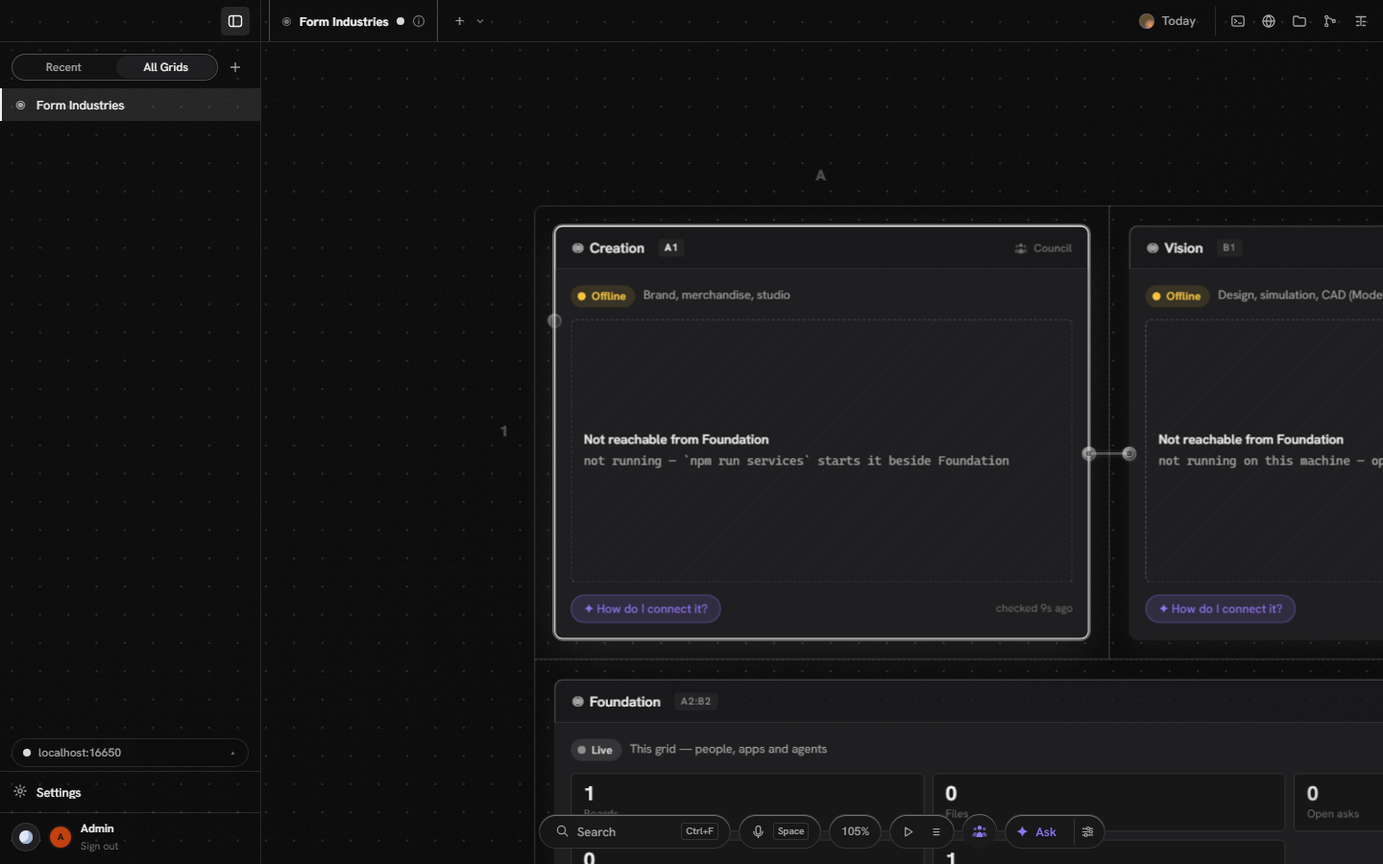
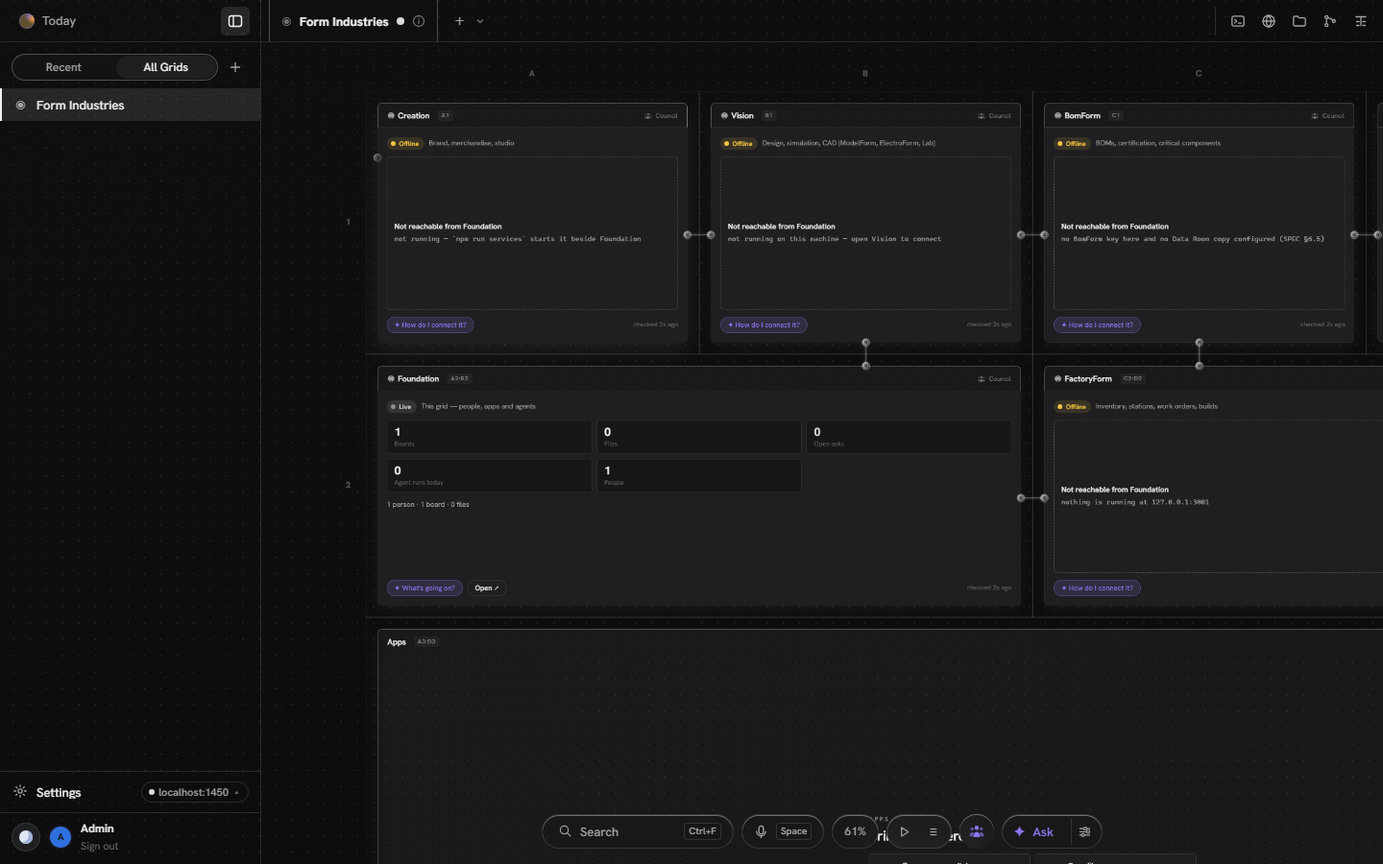
The server pill moves into Settings' band, to its right, and gets smaller
Josh: "the localhost pill can be in the same box to the right of settings.
make it smaller." The side menu's foot now has Settings and the server pill
in one band: the pill is 22 tall (was 30, the menu's width), 11 px text, a
6 px dot, 16 px in from the menu's right edge. In a narrow menu the address
shortens before Settings does. Its panel still rises over the band, left
aligned. #/design's side-pane demo matches.

Checked: npm test and npm run typecheck green; the bottom-bar e2e test for the
side menu's foot rewritten (pill right of Settings, centred on its line, at
most 24 tall, inside the menu) and passing; in the browser on #/design in day
and night, at the demo's narrow width (address shortened, Settings whole) and
at 272 px (full address, 12 px margin). SPEC §3 and DESIGN updated.

diff --git a/apps/client/e2e/bottom-bar.spec.ts b/apps/client/e2e/bottom-bar.spec.ts
@@ -173,7 +173,7 @@ test("a section's council: three places at the section's right, by its Council b
   await admin.keyboard.press("Escape");
 });
 
-test("the side menu's foot: the server the menu's width above Settings, day and night left of you, all in line with the Settings icon", async () => {
+test("the side menu's foot: the server a small pill right of Settings in its band, day and night left of you, in line with the Settings icon", async () => {
   await admin.locator(".pane-fold").click();
   const pane = admin.locator(".side-pane");
   await expect(pane.locator('[data-server-where="pane"]')).toBeVisible();
@@ -183,11 +183,12 @@ test("the side menu's foot: the server the menu's width above Settings, day and 
   const orb = await box(admin, ".side-pane .pane-foot .night-orb");
   const me = await box(admin, ".side-pane .pane-foot .me-avatar");
   const paneBox = (await pane.boundingBox())!;
-  // above Settings, and nearly the menu's width with the same space either side
-  expect(pill.y + pill.height).toBeLessThanOrEqual(settings.y);
-  expect(Math.abs(pill.x - paneBox.x - (paneBox.x + paneBox.width - (pill.x + pill.width)))).toBeLessThan(3);
-  // the left edges in a line: the server pill, the Settings icon, the orb
-  expect(Math.abs(pill.x - settings.x)).toBeLessThan(2);
+  // in Settings' band: right of it, centred on the same line, small, and inside the menu's right edge
+  expect(pill.x).toBeGreaterThan(settings.x + settings.width);
+  expect(Math.abs(pill.y + pill.height / 2 - (settings.y + settings.height / 2))).toBeLessThan(3);
+  expect(pill.height).toBeLessThanOrEqual(24);
+  expect(pill.x + pill.width).toBeLessThanOrEqual(paneBox.x + paneBox.width);
+  // the orb's left edge in line with the Settings icon
   expect(Math.abs(orb.x - settings.x)).toBeLessThan(3);
   // the orb is left of you
   expect(orb.x + orb.width).toBeLessThanOrEqual(me.x);

diff --git a/apps/client/src/design/DesignPage.tsx b/apps/client/src/design/DesignPage.tsx
@@ -495,23 +495,23 @@ export function DesignPage({ chapter }: { chapter?: DesignChapter }) {
                 </div>
               </section>
             </div>
-            {/* the foot (2026-11-17): the server the menu's width above Settings; day and night left of you; edges on the Settings icon's */}
-            <div className="server-switch-place is-bar is-pane">
-              <div className="server-switch">
-                <span className="server-switch-pill">
-                  <i className="server-switch-dot" data-tone="ok" />
-                  <span className="server-switch-addr">localhost:4410</span>
-                  <span className="server-switch-caret">▴</span>
-                </span>
-              </div>
-            </div>
-            <section className="pane-band pane-low">
+            {/* the foot (2026-11-17): Settings with the server as a small pill to its right; day and night left of you */}
+            <section className="pane-band pane-low pane-low-row">
               <span className="pane-row pane-place">
                 <span className="pane-glyph">
                   <GearGlyph />
                 </span>
                 <span className="pane-label">Settings</span>
               </span>
+              <div className="server-switch-place is-bar is-pane">
+                <div className="server-switch">
+                  <span className="server-switch-pill">
+                    <i className="server-switch-dot" data-tone="ok" />
+                    <span className="server-switch-addr">localhost:4410</span>
+                    <span className="server-switch-caret">▴</span>
+                  </span>
+                </div>
+              </div>
             </section>
             <footer className="pane-foot">
               <NightOrb onToggle={() => setNight(!isNight())} />

diff --git a/apps/client/src/server/server.css b/apps/client/src/server/server.css
@@ -292,26 +292,38 @@ html[data-server-switch] .huddle-pip ~ .upload-tray-place {
   transform-origin: top right;
 }
 
-/* ---------- in the side menu's foot, above Settings (2026-11-17): the width of the menu, its panel rising from it ---------- */
+/* ---------- in the side menu's Settings band (2026-11-17): a small pill right of Settings, its panel rising over the band ---------- */
 
 .server-switch-place.is-pane {
-  display: block;
-  /* its edges in line with the Settings icon under it (the menu rows' 12 px), and the same space on the right */
-  padding: var(--space-2) var(--space-4);
+  position: static;
+  display: flex;
+  /* a narrow menu shortens the address, never Settings */
+  flex: 0 1 auto;
+  min-width: 0;
+  align-items: center;
+  padding: 0 var(--space-4) 0 var(--space-2);
 }
+/* static, so the panel is placed against the band (.pane-low-row), not the small pill */
 .is-pane .server-switch {
-  align-items: stretch;
+  position: static;
+  min-width: 0;
+  align-items: center;
 }
 .is-pane .server-switch-pill {
-  width: 100%;
-  height: 30px;
-  justify-content: flex-start;
-  padding: 0 var(--space-4);
+  min-width: 0;
+  max-width: 100%;
+  height: 22px;
+  gap: var(--space-2);
+  padding: 0 var(--space-3);
+  font-size: var(--text-11);
+}
+.is-pane .server-switch-dot {
+  width: 6px;
+  height: 6px;
 }
 .is-pane .server-switch-addr {
-  flex: 1;
-  max-width: none;
-  text-align: left;
+  min-width: 0;
+  max-width: 104px;
 }
 .is-pane .server-switch-lift,
 .is-pane .server-switch[data-still] .server-switch-panel {

diff --git a/apps/client/src/shell/SidePane.tsx b/apps/client/src/shell/SidePane.tsx
@@ -202,15 +202,15 @@ export function SidePane({ user, boards, current, place, onSwitch, onNew }: Prop
             </section>
           </div>
 
-          {/* the server this app talks to, the menu's width, above Settings (2026-11-17: out of the top bar) */}
-          <ServerSwitch where="pane" />
-          <section className="pane-band pane-low">
+          {/* Settings, and the server this app talks to as a small pill to its right in the same band (2026-11-17) */}
+          <section className="pane-band pane-low pane-low-row">
             <button className={`pane-row pane-place${place.kind === "settings" ? " is-current" : ""}`} onClick={() => goSettings()} data-place="settings">
               <span className="pane-glyph">
                 <GearGlyph />
               </span>
               <span className="pane-label">Settings</span>
             </button>
+            <ServerSwitch where="pane" />
           </section>
           <footer className="pane-foot">
             {/* day and night, left of you (2026-11-17: out of the top bar) */}

diff --git a/apps/client/src/server/ServerSwitch.tsx b/apps/client/src/server/ServerSwitch.tsx
@@ -274,7 +274,7 @@ const keep = (k: string, v: string) => {
 let launchChecked = false;
 
 /**
- * The switch itself. Signed in, it sits in the side menu's foot above Settings (`where="pane"`, 2026-11-17;
+ * The switch itself. Signed in, it is a small pill right of Settings in the side menu's foot (`where="pane"`, 2026-11-17;
  * from 2026-11-15 it was in the top bar, `where="bar"`: always there, so the server this app talks to is
  * never a mystery); before that there is no bar, and it keeps the bottom-right
  * corner wherever the app can point at another server. `day` pins day tokens over the sign-in page.

diff --git a/apps/client/src/shell/spaces.css b/apps/client/src/shell/spaces.css
@@ -657,6 +657,16 @@
   border-top: 1px solid var(--color-line);
   border-bottom: 1px solid var(--color-line);
 }
+/* Settings and the server pill in one band: Settings takes the room, the pill sits at the right */
+.side-pane .pane-low-row {
+  position: relative;
+  display: flex;
+  align-items: center;
+}
+.side-pane .pane-low-row .pane-row {
+  flex: 1 0 auto;
+  width: auto;
+}
 .side-pane .pane-pick {
   flex: none;
   display: flex;

diff --git a/apps/client/src/shell/shell.css b/apps/client/src/shell/shell.css
@@ -5166,7 +5166,6 @@ body.is-viewer .port {
   border: 1px solid var(--color-line);
   border-radius: var(--radius-pane);
 }
-.floor-demo .side-pane .pane-foot,
-.floor-demo .side-pane .server-switch-place {
+.floor-demo .side-pane .pane-foot {
   flex: none;
 }

diff --git a/SPEC.md b/SPEC.md
@@ -10,7 +10,7 @@ Last updated 2026-11-17 · **0.3.0** (`docs/blog/0.3.0.md`; the desktop app upda
 
 The plan moved to a kanban board on 2026-11-07 (§8). What only a person can do, at the top of it:
 
-- **Restart the server the desktop app runs** (2026-11-17, plan: *server-restart-4410*): the Foundation server on `localhost:4410` was started from this checkout on 2026-11-15 at 19:42 and has not been restarted since, so it serves the code of that hour. "Add a desktop" answering *not found* was exactly that: the running server is from before the desktop routes (§7). Nothing built on 2026-11-17 (the council on its section's edge, the guided agent setup and its `claude` preset, sub-grids, the expressions stage, the studio's nodes, the machine fixes, the built-in terminal, the change log and turning on a T3 agent) is served until it restarts: the server switch (now at the foot of the side menu, above Settings), Stop, then Start, once this branch is in the checkout it starts from. Then Desktop → Add a desktop on `box-a70f`. Nobody restarted that server or touched that machine in this work
+- **Restart the server the desktop app runs** (2026-11-17, plan: *server-restart-4410*): the Foundation server on `localhost:4410` was started from this checkout on 2026-11-15 at 19:42 and has not been restarted since, so it serves the code of that hour. "Add a desktop" answering *not found* was exactly that: the running server is from before the desktop routes (§7). Nothing built on 2026-11-17 (the council on its section's edge, the guided agent setup and its `claude` preset, sub-grids, the expressions stage, the studio's nodes, the machine fixes, the built-in terminal, the change log and turning on a T3 agent) is served until it restarts: the server switch (now a small pill right of Settings, at the foot of the side menu), Stop, then Start, once this branch is in the checkout it starts from. Then Desktop → Add a desktop on `box-a70f`. Nobody restarted that server or touched that machine in this work
 - **Press the animals' expression sheets** (2026-11-17, plan: *character-expressions-press*): none was generated, for the animals or anyone else. It spends Meshy credits, so it is a person's press: 9 credits each, 54 for the six animal mesh avatars. On a server running this code, press Mochi's first (9) and look at it (the prompt has never met the real image model, §7), then the other five (45). `node scripts/characters-expressions.mjs --set animals` lists them and the cost; `--press` with `FOUNDATION_SESSION` spends them
 - **Tell Kiri one more thing** (plan: *kiri-exec-bugs*): processes killed inside a machine are never reaped (found 2026-11-17, stopping a desktop's install; §7)
 - **Before the desktop app goes to anyone else** (2026-11-12, found reading the updater end to end):
@@ -411,7 +411,7 @@ An app can also publish `/.well-known/foundation.json` (`{name, description, mcp
 | **Flowform's files, everywhere search is** (2026-11-12, Josh: "read the same things as flowform in terms of the files that it has access too") | The pane's one search (and ⌘K) now asks Flowform too, as the person, through their link: the files Flowform can see for them (its own `search`: uploads, board media, Slack, Figma), under the board's own results, tagged with where Flowform found them, 6 s at most, nothing asked without a link (`searchFlowformFiles` in `flowform-live.ts`, `searchAll({ userId })`). Flowform's `<b>` marks become Foundation's; an address that isn't http(s) or a revision that isn't an id never reaches the page. **Small pictures**: with file downloads allowed, an image or video result carries `/files/flowform/<file>/<rev>/thumb`, Flowform's own `thumbnail` rendition (else `display`), fetched as the person, raster types only, kept in memory per person (400), so pictures show as tiles as they do in Flowform. **A room's files without bringing the room in**: › on a room in Search → Flowform lists the files on its surfaces (`GET /api/flowform/rooms/:id/files`, a minute's cache). Any of them can be pulled onto the grid or clipped | done against a stand-in; **not yet run against production** | `test/flowformfiles.test.ts` (+3, 8 in all): the one search finds the person's files with marks converted, hostile fields dropped, nothing for someone unlinked or for a local-only search; a thumbnail is fetched once, as the person, never the original, never another person's; a room's files list without a pull. Browser against the stand-in (evidence 02, 09, 10). The thumbnail route and `search` inside the one search have **not** been exercised against server.formresearch.ai: that needs Josh's own link and session, which this session didn't borrow (a refresh from a copy of the data could end his real link). First real use will show whether production has `thumbnail` for older uploads (it falls back to `display`, which can be the full file, capped at 4 MB) |
 | **The oldest client a server still works with** (2026-11-12, from reading Flowform's updater: its server answers 426 "Flowform 1.9.0 or newer is required" and its client says "no longer supported") | `FOUNDATION_MIN_CLIENT=x.y.z` on the server (`apps/server/src/clientversion.ts`; one comparison for both sides in `packages/protocol/src/version.ts`). `/auth/config` (public) carries it with the server's own version. A client says its version on every socket (`client=` in the query, or in the ticket's body: neither needs a CORS allowance, so a new client still works against an older server); 0.3.0 and earlier, which don't say, are known by the desktop page's origin. Older than the minimum: the ticket is refused (426) and a sync socket closed (4426), so an old build can't write a board it might misread; reading over HTTP still works. The app then asks the feed at once and its update card stays up as *Foundation x is needed* with **Update and restart** alone (no Later, Skip or close); if the feed has nothing newer it says so and who can fix it; a browser tab says to reload. A minimum that isn't a version is ignored (and logged), never a lock-out | done on the web client; **the desktop path is unrun** | `test/clientversion.test.ts` (5, real sockets): no minimum refuses nobody; 0.3.0 against 0.4.0 is closed 4426 and its ticket 426 in words; 0.4.0 and newer open; the silent desktop origin counts as 0.3.0; a script with no origin isn't the app; a bad minimum is ignored. `test/update.test.ts` (+1, 8). Browser with the check server set to 0.9.0 (evidence 11–12): the card, amber, with Reload only, beside the search pane; the board tab read *This device's copy* (no socket). **Not run**: an installed build meeting a minimum and updating through it (there is no published release to update to, above) |
 | **Councils of their own, seats with names, a machine's Ins & outs** (2026-11-17, Josh: "every section has a different council … The Council Agent should get a name … I added the monkey as a new claude agent, perhaps this over-rode my first agent … the ins and outs should be another top level menu option … try to get that vm to output something and pipe it into a card in the section on the right") | **A council is its place's alone**: the grid's holds the grid's seats; a section's, its own; an agent asked from a council stays on it while it works (on the asker's screen), others show where they work. **Seats**: every seat has an id and a name of its own from the crew's names (Zephyr, Talc, Garnet…), worn over its head beside its marks, on its cursor while it works (`as` on `/api/agent` and T3 threads), and the name its character is chosen by; the same agent can sit twice (a second Claude is a second seat, its own sessions and character, not the first re-dressed); 6 a council. Seats from before are named once at start, each keeping the character it wore (`nameOldSeats`). **Look**: a mesh avatar's canvas takes its picture's 3:4 at the figure's height, so it fills like a silhouette, head at the top (it stood small and low); the agent pane's round violet plinth is gone; the line to an agent is a white box over its body with the mic and ✕ (above the section's edge; above the bottom bar for the grid's). **The bottom bar folds**: its room is the open paper less the grid's council; words go under 700 px, the zoom under 470, present and commands under 380. **Machine card**: Terminal · Desktop · **Ins & outs** in the head, full screen beside them; Ins & outs shows both pipes, what came out last and whether it's text or JSON (the port says so too, from what was written), *Out to a new note on the right* and *Write a test line* (a person's press: the machine writes its name and the time to `/foundation/out`) | done in Chromium; not in the desktop window | `test/grids.test.ts`: seats of their own (two Claudes, distinct names, 6 at most, off by seat) and old seats named once keeping their characters. `e2e/council.spec.ts` (8): the white line above the bar, white, ✕ and back; the seat's name over its head; an agent asked from the grid's council stays the grid's while it builds Depot. `e2e/bottom-bar.spec.ts` (8): the bar folds for the agents pane at 1000 px and keeps clear of the council. `e2e/machine-io.spec.ts` against the **real engine** on this computer: a fresh alpine machine, Ins & outs → a note in a new section on the right → *Write a test line* → the note reads "Hello from … at …UTC", the port says text; the machine removed after. On a copy of the live data: the Machine section's two Claudes became Talc (wearing Sage, the monkey) and Garnet, and the grid's council no longer shows them (`docs/evidence/2026-11-17_council-seats/`) |
-| **The bottom bar, the tools, the councils at the right** (2026-11-17, Josh: "Move all the top right functionality into the bottom utility bar … implement the tools we want in the top right, an inbuilt terminal, an inbuilt browser, and inbuilt file-system, and in-built change log, and an in-built T3 server and client") | **Bottom bar**: Search, talk, zoom, present and commands, the council beside Ask, Ask's pill with the agents' settings (opens the agents panel). **Search** opens as a window right above its pill; its pin moves it to the right pane and back (`ui.searchPinned`, remembered), and ⌘F opens wherever it was last kept; the line under the search line is `--color-line` focused or not. **Councils**: three places (silhouettes until all three are taken, then one more), close together, at the right: the grid's at the bottom right with its buttons 16 px from the right and bottom edges and the bar stepping to the bottom left; a section's at its right beside its Council button. Empty places breathe. **Agents panel**: a hairline under its tabs. **Side menu foot**: the server pill (the menu's width, its left edge on the Settings icon's) above Settings; the day/night orb left of you, on the same edge. **Day/night**: the grid's WebGL paper had no handling for a lost context, so when the browser took it (the council's stage and avatars open more contexts) it froze on its last colour; now it steps aside for the CSS paper and comes back in the right light. **Top right: the tools** (`shell/Tools.tsx`, one right pane): a **terminal** on the server's computer (an admin, in person: `POST /api/host-terminal` mints a one-time key, `/host/terminal/<id>?key=` spends it; line-mode, no PTY; `hostterm.ts`); a **browser** (address, back/forward/reload, open outside, put on the grid); **files** (this grid's archive, draggable onto the grid; the approved folders on this computer); a **change log** (this checkout's commits via `GET /api/changelog`, the releases, this grid's activity); **T3** (start and stop Foundation's own T3, and T3's own page, Vision's build of its client, framed and signed in by a one-time link). **Adding an agent through T3**: *Open T3 to sign in* opens the T3 tool instead of another browser; an agent T3 ships switched off (Antigravity for Gemini, Cursor…) gets a *Turn it on* step (`POST /api/t3host/agents/:id/enable`, an admin in person) instead of a dead end | partial: built and checked in Chromium; not in the desktop window | `e2e/bottom-bar.spec.ts` (7, Chromium on ports above 15000): each control where it was asked for, measured (bar at 16 px from the bottom left with the council open, the council's buttons 16 px from the right and bottom, seats < 6 px apart and right of the bar; the server pill and orb within 2 px of the Settings icon's edge); search over its pill, pinned, back, closed by a press elsewhere, its line the line token; the paper's context taken and given back with night switched in between; the terminal ran `echo` for an admin and refused a member (403); the change log listed commits; the browser framed a page; T3 (the stand-in) started and stopped. `test/hostterm.test.ts` (3): only a person who is an admin gets a key, nothing runs until the socket opens, a key opens one socket once, nothing else opens it, a real shell answers with its folder, the change log reads commits. The older specs that touched the moved controls pass (`council`, `section-crew`, `one-interface`, `today`: 19). Against the real T3 on a copy of the data: Antigravity went from off to enabled (and now says it isn't installed here, which is true), and the T3 tool framed Vision Code's own page, paired (`docs/evidence/2026-11-17_bottom-bar/`, 15 shots) |
+| **The bottom bar, the tools, the councils at the right** (2026-11-17, Josh: "Move all the top right functionality into the bottom utility bar … implement the tools we want in the top right, an inbuilt terminal, an inbuilt browser, and inbuilt file-system, and in-built change log, and an in-built T3 server and client") | **Bottom bar**: Search, talk, zoom, present and commands, the council beside Ask, Ask's pill with the agents' settings (opens the agents panel). **Search** opens as a window right above its pill; its pin moves it to the right pane and back (`ui.searchPinned`, remembered), and ⌘F opens wherever it was last kept; the line under the search line is `--color-line` focused or not. **Councils**: three places (silhouettes until all three are taken, then one more), close together, at the right: the grid's at the bottom right with its buttons 16 px from the right and bottom edges and the bar stepping to the bottom left; a section's at its right beside its Council button. Empty places breathe. **Agents panel**: a hairline under its tabs. **Side menu foot**: the server a small pill (22 tall, 11 px text, a 6 px dot) right of Settings in Settings' own band, its address shortening before Settings does (2026-11-17, Josh: "the localhost pill can be in the same box to the right of settings. make it smaller"); the day/night orb left of you, on the same edge. **Day/night**: the grid's WebGL paper had no handling for a lost context, so when the browser took it (the council's stage and avatars open more contexts) it froze on its last colour; now it steps aside for the CSS paper and comes back in the right light. **Top right: the tools** (`shell/Tools.tsx`, one right pane): a **terminal** on the server's computer (an admin, in person: `POST /api/host-terminal` mints a one-time key, `/host/terminal/<id>?key=` spends it; line-mode, no PTY; `hostterm.ts`); a **browser** (address, back/forward/reload, open outside, put on the grid); **files** (this grid's archive, draggable onto the grid; the approved folders on this computer); a **change log** (this checkout's commits via `GET /api/changelog`, the releases, this grid's activity); **T3** (start and stop Foundation's own T3, and T3's own page, Vision's build of its client, framed and signed in by a one-time link). **Adding an agent through T3**: *Open T3 to sign in* opens the T3 tool instead of another browser; an agent T3 ships switched off (Antigravity for Gemini, Cursor…) gets a *Turn it on* step (`POST /api/t3host/agents/:id/enable`, an admin in person) instead of a dead end | partial: built and checked in Chromium; not in the desktop window | `e2e/bottom-bar.spec.ts` (7, Chromium on ports above 15000): each control where it was asked for, measured (bar at 16 px from the bottom left with the council open, the council's buttons 16 px from the right and bottom, seats < 6 px apart and right of the bar; the server pill right of Settings and centred on its line, at most 24 tall; the orb within 3 px of the Settings icon's edge); search over its pill, pinned, back, closed by a press elsewhere, its line the line token; the paper's context taken and given back with night switched in between; the terminal ran `echo` for an admin and refused a member (403); the change log listed commits; the browser framed a page; T3 (the stand-in) started and stopped. `test/hostterm.test.ts` (3): only a person who is an admin gets a key, nothing runs until the socket opens, a key opens one socket once, nothing else opens it, a real shell answers with its folder, the change log reads commits. The older specs that touched the moved controls pass (`council`, `section-crew`, `one-interface`, `today`: 19). Against the real T3 on a copy of the data: Antigravity went from off to enabled (and now says it isn't installed here, which is true), and the T3 tool framed Vision Code's own page, paired (`docs/evidence/2026-11-17_bottom-bar/`, 15 shots) |
 | **The floor** (2026-11-02, Josh: the left pane drawn on the grid's dot layer, tabs at the top, T3-style sessions that work on the grid, search on the right with drag-to-grid, resizable panes) | The top bar, side pane, an open session and search are drawn on the paper; the cards are masked out where they are (56 px fade) and the view slides over by half a pane as one opens, so nothing hides under them; framing fits what's left. Every pane resizes from its inner edge; widths, open tabs and the open panes are remembered | done | `docs/evidence/2026-11-02_floor/`. The mask needs its own compositor layer (NOTES.md) |
 | | **Top bar**: the spaces pane's fold · a tab per open space (⌘1…9, ⌘W closes; the open one carries its sync dot and ⓘ) · ＋ new grid space · people · search ⌘F · commands ⌘K · agent layer · present · the day/night orb, top right | done | Sessions are no longer tabs (2026-11-10, below) |
 | | **Spaces** (2026-11-10, Josh: "the tab system above should only be creating new grid spaces, or new canvases which may not be a grid, like presentations or traditional web page apps") | partial | A space is a board row with a `kind` (`grid`, `deck`, `page`), a `folder` and, for a page, a `url` (`boards.ts`; `POST /api/boards` makes one with an id and a name nothing else has, `POST /api/boards/:id` renames, moves or re-points it: writers of that space only). The tabs are the spaces open in this window, kept per device. **＋** makes a grid space at once and opens it; its caret offers a presentation or a web page. Double-click the open tab to rename. **Grid**: done. **Web page**: the page at its address fills the canvas in the app sandbox; the space keeps its board for people and activity; checked with a local page only, and a site that refuses to be framed will show blank with no message yet. **Presentation**: a stub: a grid seeded with three slide sections that ▶ Present plays; it has no slide canvas of its own. `apps/server/test/spaces.test.ts` (5), `apps/client/test/floor.test.ts` (tabs) |

diff --git a/DESIGN.md b/DESIGN.md
@@ -130,7 +130,7 @@ Never write a hex or `rgba()` in a component; mix tokens (`color-mix(in srgb, va
 | **Slack mark** (the Slack board) | On the header of a section that follows a Slack channel, after the count: a pill 18 tall on raised paper with a hairline, 11/600: Slack's octothorpe as four rounded strokes in the ink (the brand's four colours stay out of the chrome), a word, a 6 px state dot. **Live**: ink, the dot ok and breathing (2.4 s). **Polling**: mist, a still warn dot. **Join**: a hollow warn dot (the app isn't in the channel; a press has it join, a person's). **Offline**: a bad dot. The roll-over says the channel, the state, the last post and why; a press reads the channel now (the octothorpe turns while it does). Beside it **✦**, an 18 px round: dim when agents are off, violet on `--color-agent-dim` while they keep the summaries (an agent will act), with who turned them on and which agent wrote this one. A viewer can't press either. In a grid section's miniature only the glyph and dot show. No transitions on its fills. `components/SlackMark.tsx`, `#/design` → The Slack board |
 | **Settings** (`#/settings/<tab>`; 2026-11-15, Josh: "Settings should not default to the plan but have the actual settings in the first panel … you can always keep the side menu open, you don't have to go full screen") | A place inside Foundation: the side menu stays. Under the top bar, a **strip** on the paper, 52 tall, a hairline at its foot: *Settings* in display 16/600, then the tabs as a segmented pill (panel well, the current tab raised with `--shadow-sheet`): **General · Agents · Avatars · Plan · Design language · Services · Places · Renderer · Releases**; a quiet link at the right on the tabs that have one (*App floorplan ↗*, *As one page ↗*). Under the strip a page tab scrolls on `--color-void`, at most 820 wide: **groups** (a 16/600 title, its note in mist 13 beside it) of **rows** on one sheet (abyss, pane radius, a hairline; rows 56 tall divided by hairlines): the name 13/600, what it means in mist 12, the choice at the right as a segmented pill (26 px halves; the current one raised) or a pill button. **General**: Appearance (Day · Night · Follow the system), When Foundation opens (Today · The grid I had open; kept on this device), Agents on this computer (using a machine's desktop: Ask me on each machine · Never; then the rules that aren't choices, each said once: starting a machine, running a command, the folders agents may read), Updates, You. **Agents**: your own agent over MCP (Copy the command), the server's own agent (subscription, API: a dot and why), this computer's agents (the T3 block: Start, the agents in the cloud and on this computer, Add Kimi or DeepSeek). **Avatars**: *Who wears what* (a row per connected agent: a 44 px round face with its provider bead at the top right, its name, where it runs, a pill picker of characters by set) and *The characters* (132 px tiles, 4:5: the still, name, set · form, *worn by …* in violet), with **Open the Character studio**. **Plan** and **Design language** are grids: only the strip is drawn, and the grid below it is the canvas (the camera frames it under the strip). Reached from the side menu's foot, ⌘K and the links that used to open a page |
 | **Plan board** (a **kanban card**: `panel: "kanban"`) | Foundation's own kanban (`docs/plan.json`, the local copy of the GitHub issues), **on a grid** (2026-11-15, Josh: "presented in the Board interface … with a new kanban board primitive as part of one large section"): Settings → Plan opens a grid of Foundation's own whose one section (2480 × 1480) holds the kanban card, filling it. The card takes the wheel inside its columns. Columns fill the page's height and scroll on their own: Needs you (amber name) · Next · Doing · Review · Backlog · Done (green name), each on the panel well (pane radius) with an 11 px uppercase name, a count pill in tabular figures and a dim one-line hint. Cards are raised paper (card radius, hairline, `--shadow-sheet`): the title in 13/600, then a dim 11 px meta line: a kind dot (red bug, blue plan, amber waits on a person), the milestone, the area in code type, and the issue number right-aligned. A press opens the card in place (height on the camera spring): its body as markdown in mist 12, **Open #n on GitHub ↗**, and for an admin **Move to…**. An admin also drags a card to another column: the card dims to 40 %, the column under it rings blue over a pulse-dim wash, and the card travels to its new place on the camera spring. A card moved here and not yet pushed keeps an amber hairline and says *Moved from Next by Ada*; the head counts them in amber. Filters: All · Bug · Plan · Needs a person as chips, a milestone picker and a search (also by #issue). The issue number on a card is a link (pulse on hover, underlined); a card made here and not yet synced says **new** in amber 600 in its place. For an admin, beside the title: **+ New card** (a pill that stays pressed while its form is open) and **↻ Sync with GitHub** (a 12 px pulse spinner and *Syncing…* while it works, then what it did in ok green after the buttons, so they never move). The form opens under the head on the camera spring: panel well, pane radius, a 14/600 title field, the kind as the filter chips, milestone and area, a description, and **Add card** in the accent pill. Every column's hint holds two lines, so cards and empty boxes start level across the board. Under 720 px the columns stack into bands. Never violet: the plan is people's |
-| **Server switch** | **2026-11-17, third pass (Josh), over what follows where they differ:** signed in, it sits in the **side menu's foot, above Settings**, the menu's width less 12 px each side, so its left edge is the Settings icon's; 30 tall, a hairline pill; its panel rises from it, left-aligned. Before that: signed in, it was **in the top bar** (see Top bar): the pill there, and this panel dropping down from it on the pop spring. Before sign-in there is no bar, and it keeps the bottom-right corner as passing chrome on glass, wherever the app can point at another server (the desktop app; a page on another site's server), over the sign-in page (z between it and the update card). Closed: a 28 px pill 16 px from the corner: an 8 px dot (ok green: answers; warn amber, breathing: checking or starting; bad red: doesn't), the address in mist 12 tabular, a dim caret; the search pane open, it sits beside the pane. Pressed: ringed in pulse, and a 360 px glass panel opens upward from it on the pop spring (from 96 %, 10 px). Head: the eyebrow *Server* and the address in the code face with its word. Then the two ways, each paper (abyss, card radius, hairline; the one in use ringed in pulse and tagged **In use**, 11/600 uppercase on pulse-dim): **This computer** (14/650): when nothing runs there and the app carries its own server, two pills sharing the row, **Built in** and **From a checkout** (the pick tinted pulse-dim like the In use tag, so Start stays the one blue action); what it is in mist 12 (built in: its data stays in the app's folder; running: where it runs from, in the code face); for a checkout, the folder in a code-face field; then **Start the server**, the one blue action (*Starting…* while it comes up, *Try again* after a failure) or a green dot *Running · started here* with **Use this server** (blue) and **Stop**; why it failed in bad, wrapped, its own words. **Remote server**: the address field and **Connect** on one row (stacked under 300 px), a dim line saying it reloads to sign in there; a bad address says why in bad. Esc or a press outside puts it away. The call chip and the upload tray move up a pill's height while it's there. Never violet: a person starts a server |
+| **Server switch** | **2026-11-17, fourth pass (Josh: "in the same box to the right of settings. make it smaller"), over what follows where they differ:** signed in, it is a **small pill right of Settings, in Settings' band** of the side menu's foot, 16 px in from the menu's right edge: 22 tall, a hairline pill, 11 px address, 6 px dot; in a narrow menu the address shortens (ellipsis) before Settings does; its panel rises over the band, left-aligned 12 px in. (Third pass, replaced: the menu's width above Settings, 30 tall.) Before that: signed in, it was **in the top bar** (see Top bar): the pill there, and this panel dropping down from it on the pop spring. Before sign-in there is no bar, and it keeps the bottom-right corner as passing chrome on glass, wherever the app can point at another server (the desktop app; a page on another site's server), over the sign-in page (z between it and the update card). Closed: a 28 px pill 16 px from the corner: an 8 px dot (ok green: answers; warn amber, breathing: checking or starting; bad red: doesn't), the address in mist 12 tabular, a dim caret; the search pane open, it sits beside the pane. Pressed: ringed in pulse, and a 360 px glass panel opens upward from it on the pop spring (from 96 %, 10 px). Head: the eyebrow *Server* and the address in the code face with its word. Then the two ways, each paper (abyss, card radius, hairline; the one in use ringed in pulse and tagged **In use**, 11/600 uppercase on pulse-dim): **This computer** (14/650): when nothing runs there and the app carries its own server, two pills sharing the row, **Built in** and **From a checkout** (the pick tinted pulse-dim like the In use tag, so Start stays the one blue action); what it is in mist 12 (built in: its data stays in the app's folder; running: where it runs from, in the code face); for a checkout, the folder in a code-face field; then **Start the server**, the one blue action (*Starting…* while it comes up, *Try again* after a failure) or a green dot *Running · started here* with **Use this server** (blue) and **Stop**; why it failed in bad, wrapped, its own words. **Remote server**: the address field and **Connect** on one row (stacked under 300 px), a dim line saying it reloads to sign in there; a bad address says why in bad. Esc or a press outside puts it away. The call chip and the upload tray move up a pill's height while it's there. Never violet: a person starts a server |
 | **Release notes** (Settings → Releases) | `docs/blog/<version>.md`, newest first. Left, a sticky list of versions (14/600 tabular, the date in dim 12; the current one raised paper with a hairline and `--shadow-sheet`, the version the app is built as tagged **THIS APP** in an 11 px pulse pill). Right, the post at most 720 px: an eyebrow with the version and the date written out, the title in display 24/600, the body in mist 14/1.6 with frost 16/600 headings and frost bold, lined up under the title (the note body's own padding removed). Under 720 px the versions run across the top |
 | **Rune mark** (bottom bar) | Only while Rune is the chosen renderer (Settings → Renderer): a glass pill 36 tall beside the zoom, 12/600 mist, a 6 px dot and the word **Rune**. The dot is ok green while Rune draws, pulse and breathing (1.6 s) while it starts. When Rune was asked for and couldn't run, the pill reads **Rune off** in warn with a warn dot, its roll-over says why, and one amber toast says the web renderer is drawing. A press opens Settings → Renderer. A button, like everything in the bottom bar. Never violet: which engine draws is a person's choice. What Rune draws wears the same tokens as the web renderer, resolved and handed to it (`rune/host.ts`). Cards that are web content (apps, maps, video) are the web's own, over the canvas, and look as they always do; a table at rest is Rune's, on the web table's own measures (52 header with the grip and the name 15/650, 32 column heads and 44 row numbers on the panel well in dim 10.5/600, 148 × 40 cells ruled in `--color-line`, values 13.5 with tabular figures, errors in `--color-bad` 11.5/600), and the live sheet takes its place when it's pressed. A section's tools, a note's bar and the resize corner are the web's by measure (30 tall bar, 26 × 24 buttons, a hairline between groups, the remove confirmation under the header) with **line icons Rune draws** (14 px, 1.4 stroke, in mist; the agent's a filled four-point star in violet; remove in the bad colour), because the web's glyphs are symbols Rune's face doesn't carry. **The paper under Rune is the same paper** (§1's grain, dots, pointer light and vignette: the WebGL shader ported, not redesigned), its type is Hanken Grotesk, and a note's markdown wears `.note-rendered`'s sizes and margins (20 / 16.5 / 14 / 13 headings at 700, body 13.5 on 1.55, code 12 on a 6 % frost chip, a 3 px quote rule in `--line-strong`, links in pulse with a 30 % underline). `rune/RuneSurface.tsx`, `#/design` → Rune renderer |
 | **Settings → Renderer** | On paper, like Services: a lede, then the two engines as raised cards side by side (card radius, hairline, `--shadow-sheet`; one column under 560 px): a 14 px radio ring, the name 14/600 with a dim 11 uppercase tag (*Default*, *Experimental*), what it is in mist 12. The chosen one is ringed in pulse (1 px line + 1 px ring), its radio filled. Under them, Services rows: WebGPU and Build (ok or warn dot; the build's Rune revision in code, its size and date, or the command that makes it), and *Fell back* with the reason when it did. Then **Where Rune stands**: 16/600 with the counts in dim 12 tabular; the ledger in groups under moss eyebrows, each row a state word (11/600 with a 6 px dot: **Same** ok green, **Partly** a warn dot, **Web layer** a pulse dot, **Not yet** a hollow dim ring), what it is in frost 13, and the difference in mist 12. Under 560 px the difference drops under the row |
